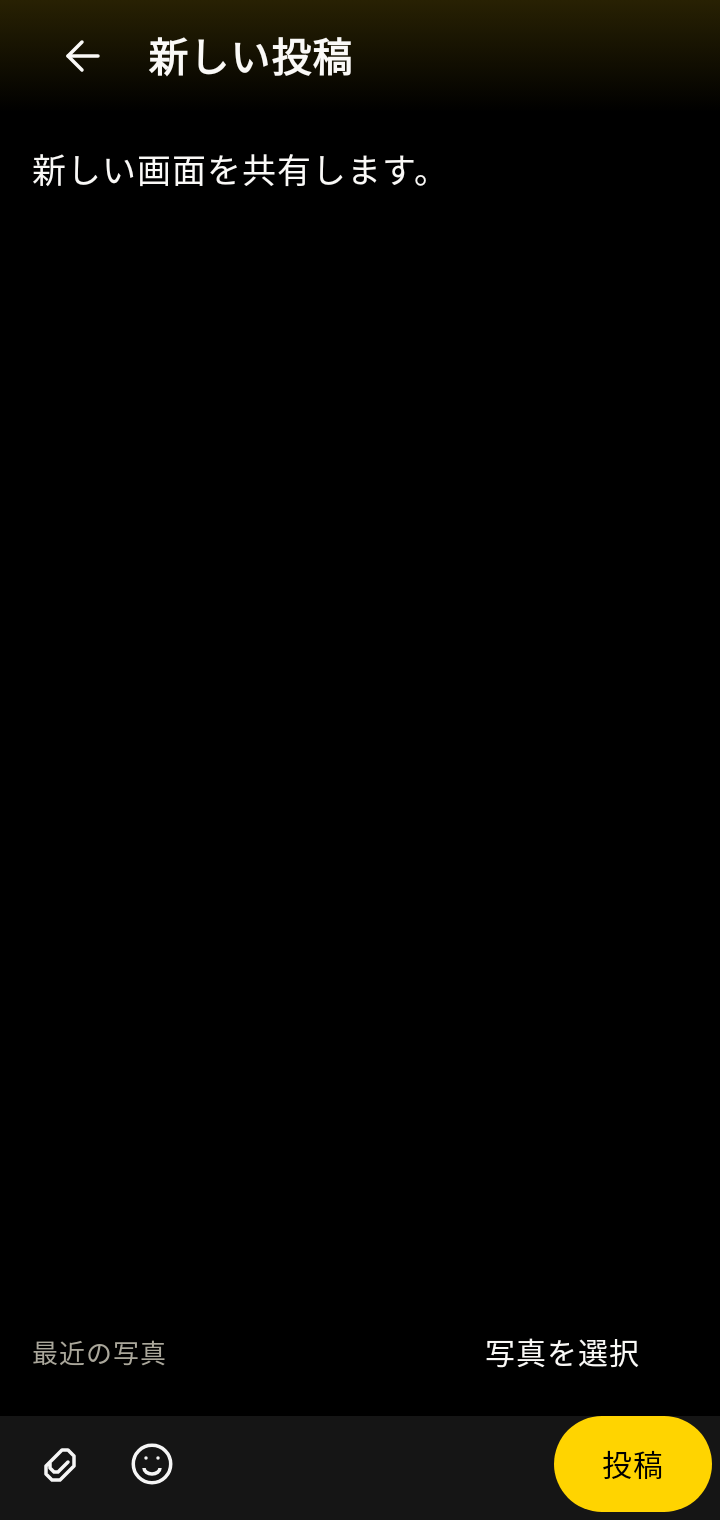
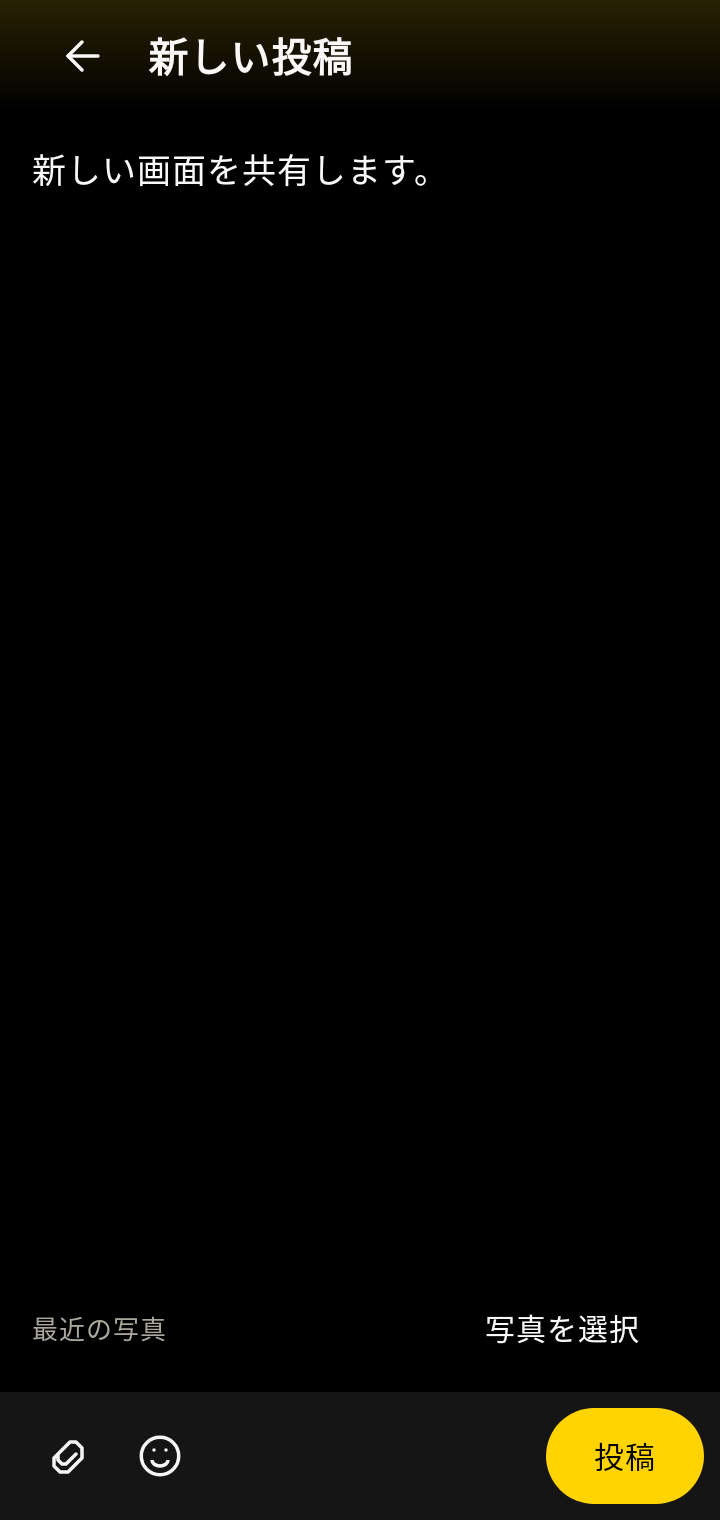
投稿操作バーの四辺に内側の余白を設ける

diff --git a/frontend-compose/androidApp/src/main/kotlin/zoo/android/ui/SecondaryPages.kt b/frontend-compose/androidApp/src/main/kotlin/zoo/android/ui/SecondaryPages.kt
@@ -19,6 +19,7 @@ import androidx.compose.ui.draw.clip
 import androidx.compose.ui.graphics.Brush
 import androidx.compose.ui.graphics.Color
 import androidx.compose.ui.graphics.SolidColor
+import androidx.compose.ui.platform.testTag
 import androidx.compose.ui.semantics.Role
 import androidx.compose.ui.text.style.TextAlign
 import androidx.compose.ui.unit.dp
@@ -101,10 +102,11 @@ internal fun NewPostPage(
                 }
             }
         }
-        Row(Modifier.fillMaxWidth().background(colors.inputSurface)
-            .padding(start = AndroidControlSize.inputEdgeInset, end = AndroidControlSize.inputEdgeInset,
-                bottom = AndroidControlSize.inputEdgeInset),
-            verticalAlignment = Alignment.CenterVertically) {
+        Row(
+            Modifier.fillMaxWidth().background(colors.inputSurface).testTag("post-actions")
+                .padding(AndroidControlSize.postActionInset),
+            verticalAlignment = Alignment.CenterVertically,
+        ) {
             UiIconButton(UiIcon.Attach, "写真", colors.inputText, { dispatch(AndroidUiAction.UseInputTool(InputTool.Attach)) })
             UiIconButton(UiIcon.Emoji, "絵文字", colors.inputText, { dispatch(AndroidUiAction.UseInputTool(InputTool.Emoji)) })
             Spacer(Modifier.weight(1f))

diff --git a/frontend-compose/ui-preview/src/test/kotlin/zoo/android/ui/AndroidSamplesTest.kt b/frontend-compose/ui-preview/src/test/kotlin/zoo/android/ui/AndroidSamplesTest.kt
@@ -105,6 +105,15 @@ class AndroidSamplesTest {
                         "Expected 4dp between send action and screen edges: $bounds / $root"
                     }
                 }
+                if (name == "post-compose") {
+                    val toolbar = ui.onNodeWithTag("post-actions").getUnclippedBoundsInRoot()
+                    val post = ui.onNodeWithText("投稿").assertHeightIsEqualTo(48.dp).getUnclippedBoundsInRoot()
+                    val photos = ui.onNodeWithContentDescription("写真").getUnclippedBoundsInRoot()
+                    check(
+                        post.top - toolbar.top == 8.dp && toolbar.bottom - post.bottom == 8.dp &&
+                            toolbar.right - post.right == 8.dp && photos.left - toolbar.left == 8.dp,
+                    ) { "Expected an 8dp inset around the post actions: $post / $photos / $toolbar" }
+                }
                 capture("$name-${if (night) "dark" else "light"}")
             }
         }

diff --git a/frontend-compose/androidApp/src/main/kotlin/zoo/android/ui/UiIcon.kt b/frontend-compose/androidApp/src/main/kotlin/zoo/android/ui/UiIcon.kt
@@ -24,6 +24,7 @@ import androidx.compose.ui.unit.dp
 internal object AndroidControlSize {
     val target = 48.dp
     val inputEdgeInset = 4.dp
+    val postActionInset = 8.dp
     val icon = 24.dp
     val navigationHeight = 60.dp
     val navigationIndicatorHeight = 32.dp

diff --git a/docs/android-design.md b/docs/android-design.md
@@ -21,7 +21,7 @@ Androidの見た目を変更するときの基準。数値の定義元は
 | 画面 | 構成・操作 |
 | --- | --- |
 | ホーム | タブの下に枠なしのタイムライン。本文サイズを保ち、投稿を罫線で区切る。鉛筆アイコンで投稿を開く。 |
-| ホーム投稿 | 本文と添付のプレビューを同じ下書きに置く。下から最近の写真を出し、OSの写真ピッカーへの入口も提供する。 |
+| ホーム投稿 | 本文と添付のプレビューを同じ下書きに置く。下から最近の写真を出し、OSの写真ピッカーへの入口も提供する。操作バーの四辺に8dpの内側余白を設ける。 |
 | チャンネル一覧 | 上部の検索入口、参加中の一覧、DMの順。チャンネルとDMは名前を1行で表示し、未読がある場合だけ太字にする。未読状態は読み上げにも渡す。説明文と行間の区切り線を省き、通常の行高は48dpにそろえる。 |
 | 会話・スレッド | 上部のチャンネル名から設定を開く。会話には下部タブを出さず、入力欄を画面端に配置する。スレッドを閉じたときは元の位置へ戻る。 |
 | 通知 | 送信者、通知の種類、会話名を読み順に置く。利用できる返信元や画像を補助情報として出す。未読ラベルを使う。通知画面に表示した項目を自動で既読にし、既読操作のボタンは置かない。 |
